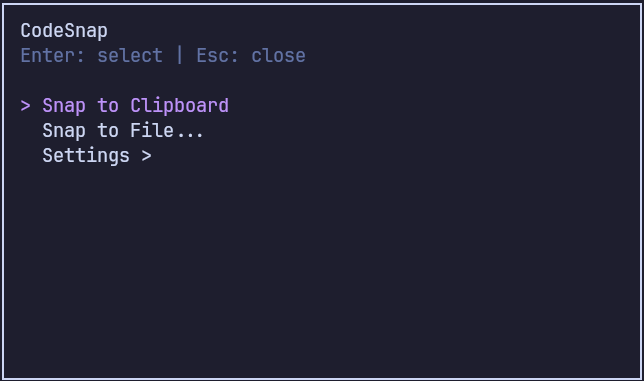
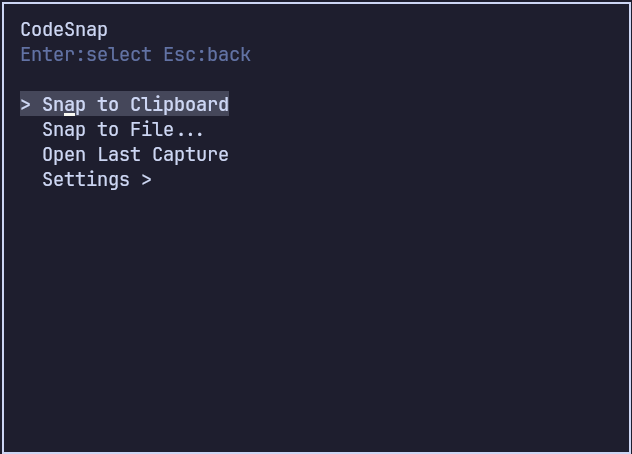
docs(readme): refresh interface screenshots

Changed region(s): [[0.0, 0.0, 1.0, 1.0], [0.0301, 0.2021, 0.3608, 0.4331]]

diff --git a/README.md b/README.md
@@ -26,6 +26,11 @@ Similar to CodeSnap or Polacode for VS Code, but for Helix. It pipes your curren
   <img src="screenshots/settings.png" alt="CodeSnap settings menu" width="48%" />
 </p>
 
+<p align="center">
+  <img src="screenshots/save.snap.dialog.png" alt="CodeSnap save path picker" width="48%" />
+  <img src="screenshots/export.config.in.buffer.png" alt="Exported CodeSnap configuration in a Helix scratch buffer" width="48%" />
+</p>
+
 ## Requirements
 
 1. **Helix with Steel**: You need a build of Helix that includes the Scheme/Steel plugin system.
